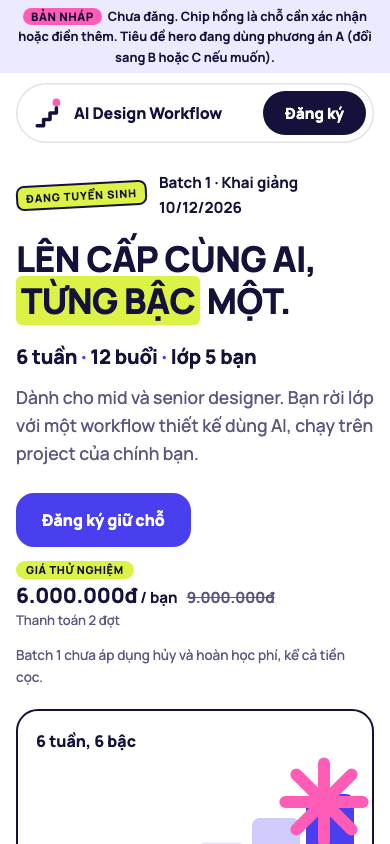
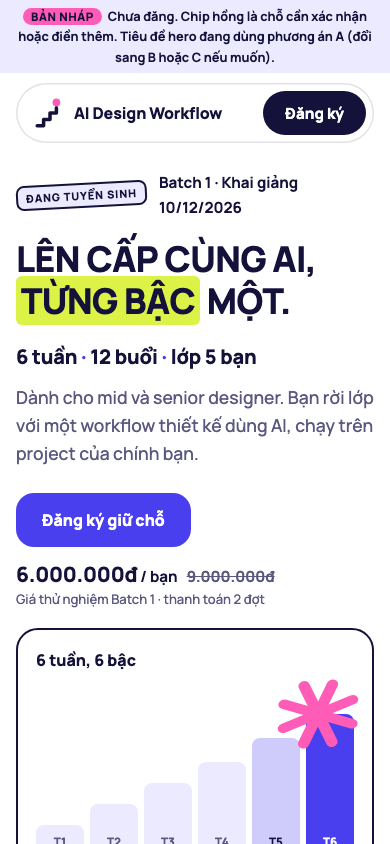
Hero polish: wonky star, soft status tag, plain trial note, drop refund line from hero

diff --git a/site/public/landing-v2/index.html b/site/public/landing-v2/index.html
@@ -58,12 +58,8 @@ section{padding:var(--section) 0 0}
 
 /* Hero: chữ trên nền trắng. Bên phải là thẻ "6 tuần, 6 bậc", ngôi sao hồng lớn đè lên bậc cuối */
 .hero{display:grid;grid-template-columns:minmax(0,1.5fr) minmax(0,1fr);gap:clamp(20px,4vw,56px);align-items:center;padding:clamp(28px,6vw,72px) 0 8px}
-.eb{margin:0;align-items:center;gap:12px;font-weight:700;font-size:.95rem}
-.eb-c,.eb-d{display:none}
-body.e-c .eb-c{display:inline-flex}
-body.e-d .eb-d{display:inline-flex;background:var(--soft);border-radius:var(--r-pill);padding:6px 14px 6px 10px;font-weight:800;font-size:.8rem;letter-spacing:.04em;text-transform:uppercase}
-.eb-d svg{width:16px;height:16px;color:var(--pink)}
-.stamp{display:inline-block;font-size:.68rem;font-weight:800;letter-spacing:.08em;text-transform:uppercase;border:2px solid var(--ink);background:var(--chartreuse);border-radius:8px;padding:2px 8px;transform:rotate(-3deg);white-space:nowrap}
+.eb{margin:0;display:inline-flex;align-items:center;gap:12px;font-weight:700;font-size:.95rem}
+.stamp{display:inline-block;font-size:.68rem;font-weight:800;letter-spacing:.08em;text-transform:uppercase;border:2px solid var(--ink);background:var(--soft);border-radius:8px;padding:2px 8px;transform:rotate(-3deg);white-space:nowrap}
 .h-text h1{font-size:clamp(2.2rem,5.4vw,4rem);text-transform:uppercase;letter-spacing:-.015em;line-height:1.2;font-weight:800;margin-top:18px;text-wrap:balance}
 .h-text h1 em{font-style:normal;background:var(--chartreuse);padding:0 .14em;border-radius:.16em;-webkit-box-decoration-break:clone;box-decoration-break:clone}
 .sum{margin-top:18px;font-size:1.25rem;font-weight:800;letter-spacing:-.01em}
@@ -72,7 +68,6 @@ body.e-d .eb-d{display:inline-flex;background:var(--soft);border-radius:var(--r-
 .h-cta{margin-top:26px;display:flex;flex-wrap:wrap;align-items:center;gap:14px 22px}
 .btn--indigo{background:var(--indigo);color:#fff}
 .hprice{display:flex;flex-direction:column;align-items:flex-start;gap:3px;line-height:1.3}
-.hprice .pill{background:var(--chartreuse);border-radius:var(--r-pill);font-size:.68rem;font-weight:800;letter-spacing:.06em;text-transform:uppercase;padding:2px 10px}
 .pnow{font-size:.95rem;font-weight:700}.pnow b{font-size:1.3rem;font-weight:800;letter-spacing:-.01em}
 .pnow s{color:var(--muted);font-weight:600;margin-left:6px}
 .pnote{font-size:.82rem;color:var(--muted)}
@@ -84,10 +79,10 @@ body.e-d .eb-d{display:inline-flex;background:var(--soft);border-radius:var(--r-
 .bars i:nth-child(1){height:22%}.bars i:nth-child(2){height:36%}.bars i:nth-child(3){height:50%}.bars i:nth-child(4){height:64%}
 .bars i:nth-child(5){height:80%;background:#CFCBFA;color:var(--ink)}
 .bars i:nth-child(6){height:96%;background:var(--indigo);color:#fff}
-.star-big{position:absolute;right:-16px;top:-32px;width:92px;height:92px;color:var(--pink);pointer-events:none}
+.star-big{position:absolute;right:-26px;top:-40px;width:96px;height:96px;color:var(--pink);pointer-events:none;transform:rotate(16deg) skewX(-10deg) scaleY(.92);transform-origin:center}
 .art-cap{margin-top:10px;font-size:.85rem;color:var(--muted)}
 .sparkle{position:absolute;width:60px;height:60px;color:var(--pink);right:-8px;top:-14px}
-@media(max-width:860px){.hero{grid-template-columns:minmax(0,1fr)}.h-art{max-width:none}.bars{height:150px}}
+@media(max-width:860px){.hero{grid-template-columns:minmax(0,1fr)}.h-art{max-width:none}.bars{height:150px}.star-big{right:-6px;top:-36px;width:84px;height:84px}}
 
 /* Vấn đề */
 .cards4{display:grid;grid-template-columns:repeat(3,minmax(0,1fr));gap:var(--gap)}
@@ -272,21 +267,17 @@ footer .wrap{display:flex;flex-wrap:wrap;gap:12px 28px;align-items:center;justif
 <div class="wrap">
   <div class="hero">
     <div class="h-text">
-      <!-- Tạm thời: hai kiểu dòng đầu để so sánh. Dùng ?e=c hoặc ?e=d trên URL. Xóa một kiểu khi đã chọn. -->
-      <p class="eb eb-c"><span class="stamp">Đang tuyển sinh</span>Batch 1 · Khai giảng 10/12/2026</p>
-      <p class="eb eb-d"><svg viewBox="0 0 100 100" aria-hidden="true"><use href="#star"/></svg>Batch 1 · 10/12/2026</p>
+      <p class="eb"><span class="stamp">Đang tuyển sinh</span>Batch 1 · Khai giảng 10/12/2026</p>
       <h1>Lên cấp cùng AI, <em>từng bậc</em> một.</h1>
       <p class="sum">6 tuần <span>·</span> 12 buổi <span>·</span> lớp 5 bạn</p>
       <p class="lead">Dành cho mid và senior designer. Bạn rời lớp với một workflow thiết kế dùng AI, chạy trên project của chính bạn.</p>
       <div class="h-cta">
         <a class="btn btn--indigo btn--lg" href="#dang-ky">Đăng ký giữ chỗ</a>
         <div class="hprice">
-          <span class="pill">Giá thử nghiệm</span>
           <span class="pnow"><b>6.000.000đ</b> / bạn <s>9.000.000đ</s></span>
-          <span class="pnote">Thanh toán 2 đợt</span>
+          <span class="pnote">Giá thử nghiệm Batch 1 · thanh toán 2 đợt</span>
         </div>
       </div>
-      <p class="policy-line">Batch 1 chưa áp dụng hủy và hoàn học phí, kể cả tiền cọc.</p>
     </div>
     <div class="h-art">
       <h2 class="art-h">6 tuần, 6 bậc</h2>
@@ -544,9 +535,5 @@ footer .wrap{display:flex;flex-wrap:wrap;gap:12px 28px;align-items:center;justif
   <span>Winnie Nguyen · Daphne Huynh · Học online, bằng tiếng Việt</span>
 </div></footer>
 
-<script>
-/* Tạm thời: chọn kiểu dòng đầu bằng ?e=c hoặc ?e=d (mặc định c). Xóa script này khi đã chọn. */
-(function(){var e='c';try{var q=new URLSearchParams(location.search).get('e');if(q==='d')e='d'}catch(x){}document.body.classList.add('e-'+e)})();
-</script>
 </body>
 </html>

diff --git a/site/public/brand/components.md b/site/public/brand/components.md
@@ -24,4 +24,4 @@ Các thành phần dưới đây có bản chạy được trong `landing-v2/ind
 2. Hồng chỉ ở dạng điểm nhỏ (sao, chấm, một thẻ). Không dùng làm nền section.
 3. Tối đa ba phần tử nghiêng mỗi màn hình.
 4. Nút chính trong một khối chỉ có một. Nút phụ đi kèm bên cạnh.
-5. Câu chính sách hoàn tiền phải nằm cạnh mọi nút đăng ký, vì Batch 1 không hoàn tiền (xem nội dung ở `learning/landing-content-vi.md`).
+5. Câu chính sách hoàn tiền Batch 1 phải có ở mục học phí, cạnh nút của CTA cuối trang, trong hỏi đáp và trong ô đồng ý của form. Hero không cần nhắc lại, vì Batch 1 không hoàn tiền nên người đọc phải thấy câu này trước khi đóng tiền, không nhất thiết trước khi bấm đăng ký.
